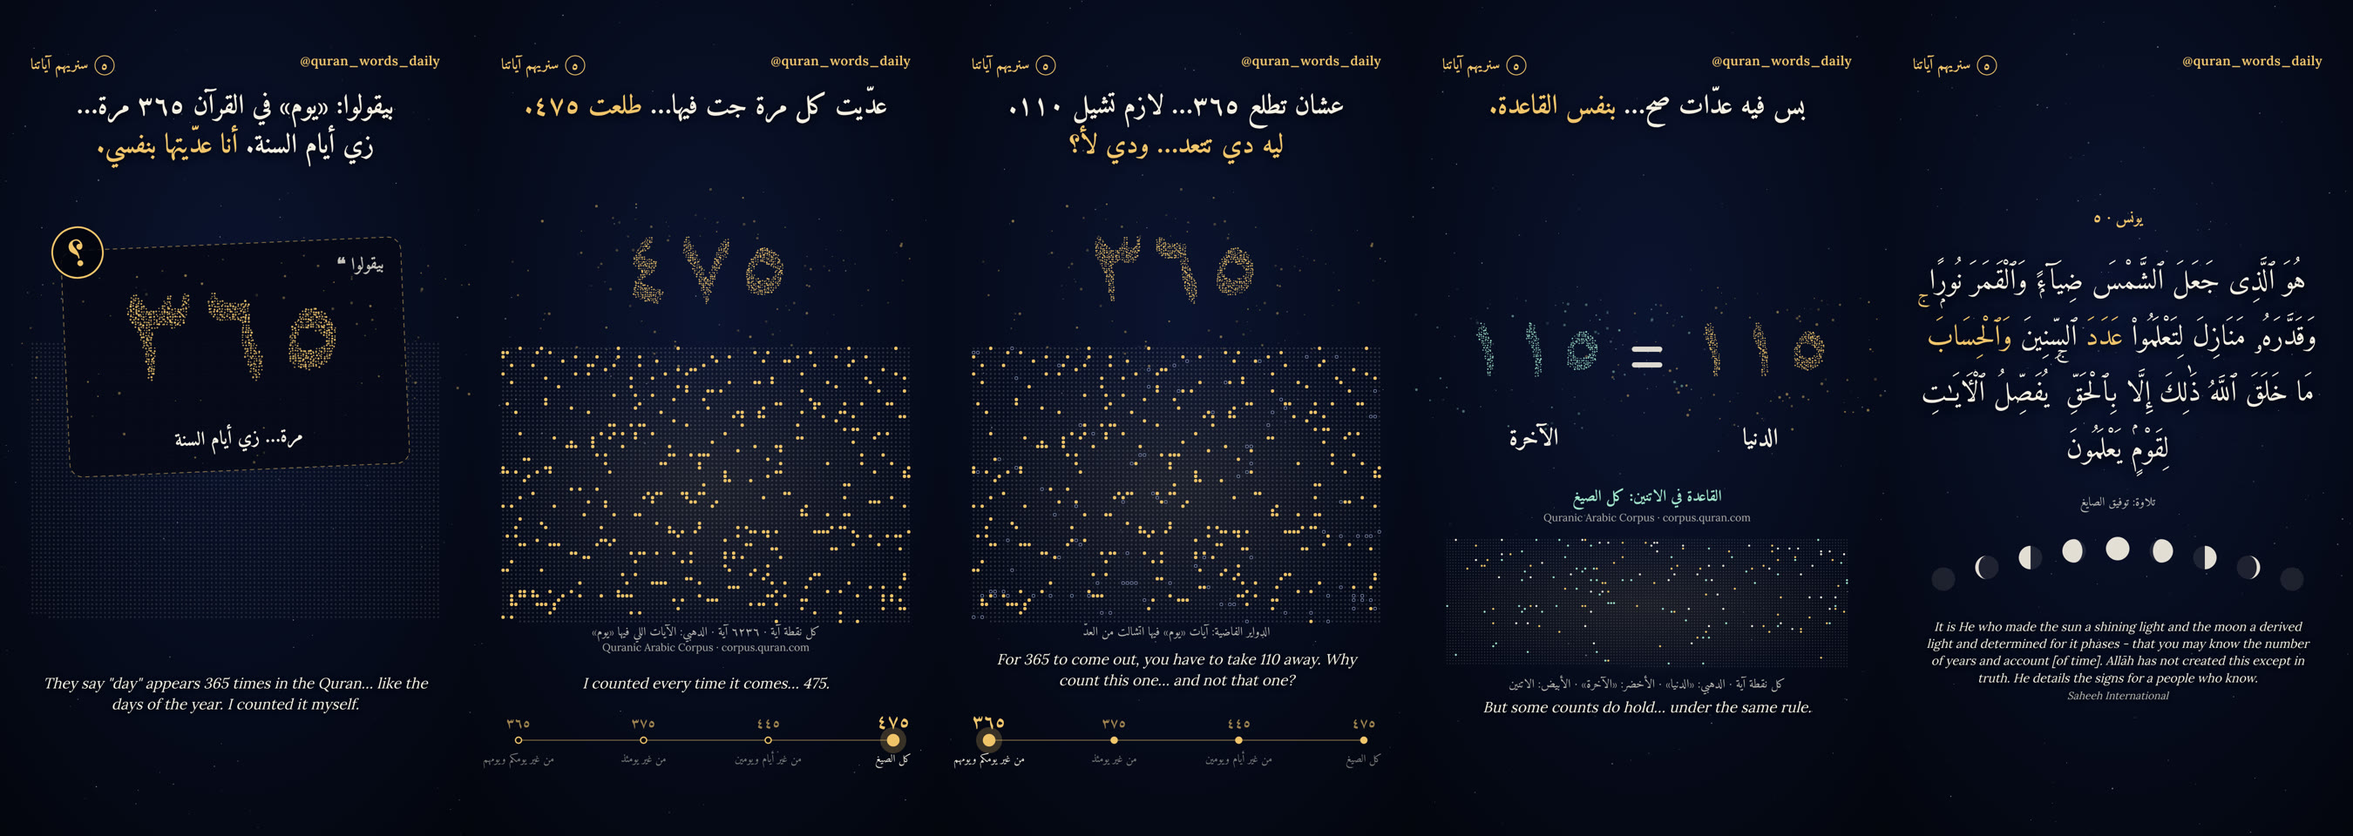
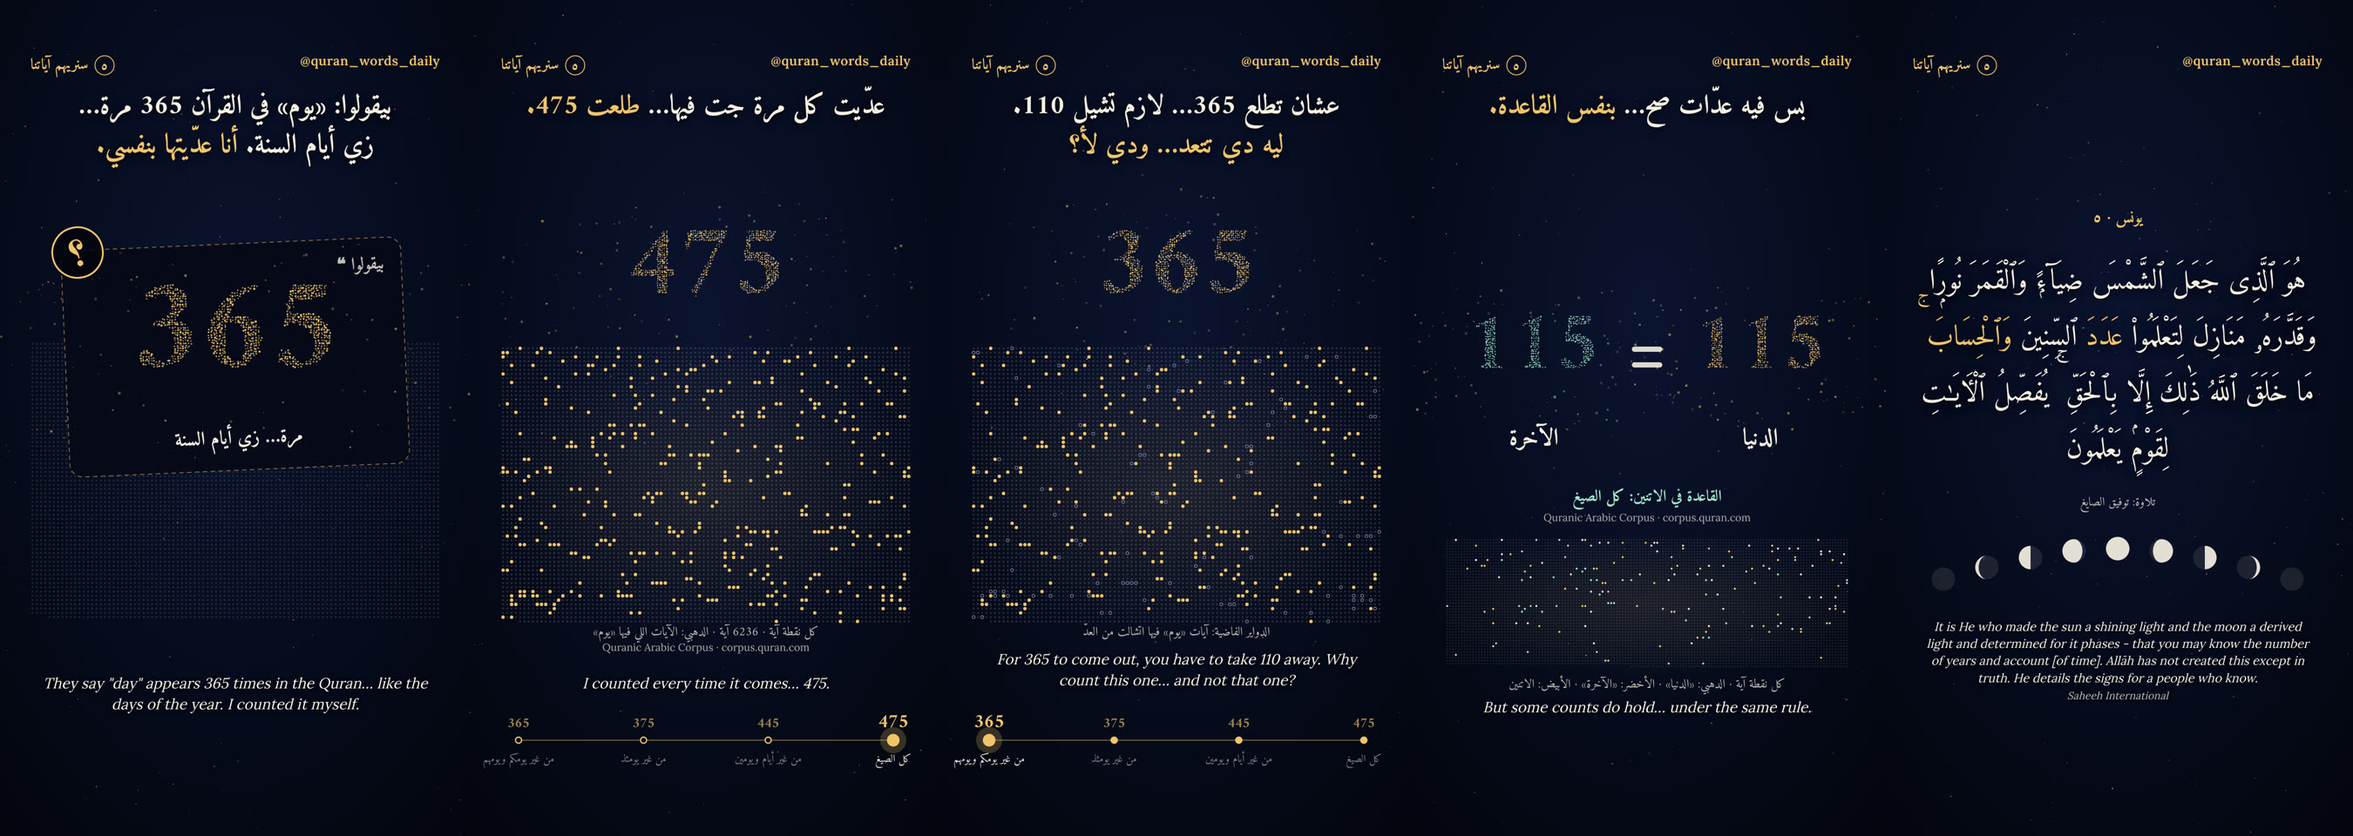
Write the counting style's numbers as 365, not in Arabic-Indic digits
The owner's choice for the counting style: the particle numbers, the
strip of rules, the lines and the captions. The series badge and the
verse references keep the series' digits. Style frames redrawn.

Claude-Session: https://claude.ai/code/session_019MTSq8WuNnFx7ScByNjKLN

diff --git a/docs/retention/count-style-frame.py b/docs/retention/count-style-frame.py
@@ -1,7 +1,8 @@
 #!/usr/bin/env python3
 """Style frames of the counting style (owner, 2026-11-13: « enregistre ce style comme option »), not part of the videos:
-five stills of a « سنريهم آياتنا » episode on the claim « يوم ٣٦٥ » in the look of the counting style (docs/model.md):
-numbers made of particles, a grid of the 6,236 verses where the counted word lights up, a strip of the counting rules
+five stills of a « سنريهم آياتنا » episode on the claim « يوم 365 » in the look of the counting style (docs/model.md):
+numbers made of particles (counts written 365, never in Arabic-Indic digits: owner,
+2026-11-13), a grid of the 6,236 verses where the counted word lights up, a strip of the counting rules
 at the foot, two counts set equal, a verse with a drawing under it.
 
 Every number is counted here, never typed: the morphology of the Quranic Arabic Corpus (quran-morphology.txt of
@@ -26,13 +27,8 @@ MORPH = Path(sys.argv[2])
 FONTS = ROOT / "video" / "public" / "fonts"
 W, H = 1080, 1920
 GOLD, INK, NIGHT, MINT, OFF = "#f0c46a", "#f4efe2", "#03050d", "#9fe3c8", "#7f8db0"
-AR = str.maketrans("0123456789", "٠١٢٣٤٥٦٧٨٩")
 e = html.escape
 random.seed(5)
-
-
-def ar(n):
-    return str(n).translate(AR)
 
 
 # --- the counts -------------------------------------------------------------------------------------------------------
@@ -110,7 +106,7 @@ def rules(step):
         glow = f'<circle cx="{x:.0f}" cy="{y}" r="30" fill="{GOLD}" opacity=".22"/>' if on else ""
         out.append(f'{glow}<circle cx="{x:.0f}" cy="{y}" r="{r}" fill="{GOLD if on or past else NIGHT}" stroke="{GOLD}" stroke-width="3"/>'
                    f'<text x="{x:.0f}" y="{y - 30}" text-anchor="middle" font-family="Amiri" font-weight="700" font-size="{44 if on else 32}" '
-                   f'fill="{GOLD}" opacity="{1 if on else .65}">{ar(n)}</text>'
+                   f'fill="{GOLD}" opacity="{1 if on else .65}">{str(n)}</text>'
                    f'<text x="{x:.0f}" y="{y + 50}" text-anchor="middle" font-family="Amiri" font-size="25" fill="{INK}" '
                    f'opacity="{.95 if on else .5}">{label}</text>')
     return "".join(out)
@@ -227,30 +223,30 @@ CORPUS = "Quranic Arabic Corpus · corpus.quran.com"
 # 1. The first frame: the claim, shown as a claim (quoted, dashed, a question mark on it), never said by our voice
 CARD = (f'<rect x="150" y="560" width="780" height="520" rx="30" transform="rotate(-2.5 540 820)" fill="#060a18" fill-opacity=".92" '
         f'stroke="{GOLD}" stroke-opacity=".55" stroke-width="2" stroke-dasharray="10 8"/>')
-page("count-a", stars(160) + grid(790, faint=True) + CARD + number(ar(365), 540, 800, 300),
+page("count-a", stars(160) + grid(790, faint=True) + CARD + number(str(365), 540, 800, 300),
      f'''{TOP}
-<div class="line">بيقولوا: «يوم» في القرآن ٣٦٥ مرة…<br>زي أيام السنة. <span class="gold">أنا عدّيتها بنفسي.</span></div>
+<div class="line">بيقولوا: «يوم» في القرآن 365 مرة…<br>زي أيام السنة. <span class="gold">أنا عدّيتها بنفسي.</span></div>
 <div class="claim"><div class="who">❝ بيقولوا</div><div class="what">مرة… زي أيام السنة</div></div><div class="stamp">؟</div>
 <div class="en" style="top:1545px">They say "day" appears 365 times in the Quran… like the days of the year. I counted it myself.</div>''')
 
 # 2. The count: every form of the word, every verse it is in lit on the grid
-page("count-b", stars(90) + number(ar(STEPS[0]), 540, 640, 230) + grid(800, lit=lit_all) + rules(0),
+page("count-b", stars(90) + number(str(STEPS[0]), 540, 640, 230) + grid(800, lit=lit_all) + rules(0),
      f'''{TOP}
-<div class="line">عدّيت كل مرة جت فيها… <span class="gold">طلعت {ar(STEPS[0])}.</span></div>
-<div class="caption" style="top:1428px">كل نقطة آية · {ar(len(VERSES))} آية · الدهبي: الآيات اللي فيها «يوم»</div>
+<div class="line">عدّيت كل مرة جت فيها… <span class="gold">طلعت {str(STEPS[0])}.</span></div>
+<div class="caption" style="top:1428px">كل نقطة آية · {str(len(VERSES))} آية · الدهبي: الآيات اللي فيها «يوم»</div>
 <div class="source" style="top:1470px">{CORPUS}</div>
 <div class="en" style="top:1545px">I counted every time it comes… 475.</div>''')
 
 # 3. The rules: what has to go for 365 to come out, the verses that go dark as empty rings
-page("count-c", stars(90) + number(ar(STEPS[3]), 540, 640, 230) + grid(800, lit=lit_kept, gone=lit_all - lit_kept) + rules(3),
+page("count-c", stars(90) + number(str(STEPS[3]), 540, 640, 230) + grid(800, lit=lit_kept, gone=lit_all - lit_kept) + rules(3),
      f'''{TOP}
-<div class="line">عشان تطلع ٣٦٥… لازم تشيل {ar(STEPS[0] - STEPS[3])}.<br><span class="gold">ليه دي تتعد… ودي لأ؟</span></div>
+<div class="line">عشان تطلع 365… لازم تشيل {str(STEPS[0] - STEPS[3])}.<br><span class="gold">ليه دي تتعد… ودي لأ؟</span></div>
 <div class="caption" style="top:1428px">الدواير الفاضية: آيات «يوم» فيها اتشالت من العدّ</div>
 <div class="en" style="top:1490px">For 365 to come out, you have to take 110 away. Why count this one… and not that one?</div>''')
 
 EQUALS = "".join(f'<rect x="505" y="{y}" width="70" height="12" rx="6" fill="{INK}" opacity=".9"/>' for y in (796, 832))
 # 4. The honest part: two counts that do hold, under the same rule
-page("count-d", stars(120) + number(ar(dunya), 800, 820, 190) + EQUALS + number(ar(akhira), 280, 820, 190, MINT)
+page("count-d", stars(120) + number(str(dunya), 800, 820, 190) + EQUALS + number(str(akhira), 280, 820, 190, MINT)
      + grid(1240, lit=in_dunya, other=in_akhira, cols=140, pitch=6.6, size=.62),
      f'''{TOP}
 <div class="line">بس فيه عدّات صح… <span class="gold">بنفس القاعدة.</span></div>

diff --git a/CLAUDE.md b/CLAUDE.md
@@ -150,7 +150,7 @@ La session est l'orchestrateur : elle fait le plan, confie ce qui s'y prête, re
 - **Dhul-Qarnayn** (`west`, `tribute`, `barrier`, film `qarnayn`) : **tout est validé** le 2026-11-12, vidéos et textes à coller (`docs/retention/publication-qarnayn.md`) ; release brouillon `qarnayn-candidate`. À publier par lui. Ensuite : les autres épisodes publiés à réécrire (`docs/themes.md`).
 - **La série « آية وحكايتها »** (`ayah` : `caravan` 62:11, `duha` 93:1-8, `hope` 39:53) : pilote de trois shorts (1:41, 1:50, 1:31), **tout est validé** le 2026-11-12 : le script (une réplique du short 3 changée à sa demande : `content/wording.yaml`, `sins-named`), puis les vidéos (voix, images, clips, couvertures, ambiances ; le short 1 en plein jour, parce que la prière du vendredi est à midi), ses vingt-deux sources et les textes à coller (`docs/retention/publication-ayah.md`) ; release brouillon `ayah-candidate`. À publier par lui. Sa dernière réplique promet « le verset suivant et son récit » : trois versets candidats pour la suite (24:22, 8:32-33, 9:118 : `docs/themes.md`) ; **sa décision (2026-11-12) : publier d'abord, poursuivre ensuite**, le choix se fera avec les premières mesures (vers le 27 novembre si la série sort un vendredi par semaine).
 - **Les films en vertical, à l'essai** (sa demande, 2026-11-12 : « les films aussi en 9:16, à mettre sur Facebook » ; il commence à publier le vendredi 13) : le même film, même voix et même minutage, monté comme ses shorts (`TrialFilm916`, `only: tall`, release brouillon `<files>-9x16-candidate`, texte par `publish.py --tall` ; `docs/model.md`). Avis donné : oui pour Facebook (toute vidéo y est un Reel, le 16:9 y est une bande au milieu du téléphone), mais il y répète ses trois shorts : en publier un d'abord, après ses shorts, et comparer. Il publie **Moussa et al-Khadir en premier**. Les trois films verticaux sont rendus, contrôlés et envoyés avec leur texte Facebook (`video/out/tall/` de la session) : Moussa et al-Khadir (7:47, rendu dans la session), Dhul-Qarnayn (8:25) et le du'a (7:36), ces deux-là dans leurs releases brouillon `qarnayn-9x16-candidate` et `dua-9x16-candidate`. **Validés par lui le 2026-11-12** (« je valide tout » : le montage vertical et le texte Facebook ; `tall.validated` de chaque fichier de film ; textes : `docs/retention/publication-<film>-9x16.md`). Le film 16:9 et le film vertical de Moussa et al-Khadir ne sont dans aucune release (rendus dans la session) : ils ne vivent que dans la conversation et dans `video/out/` de la session.
-- **Une deuxième série, « سنريهم آياتنا »** (son idée, 2026-11-12 ; titre validé par lui, 41:53) : Abou Lahab (111:1-5, Ibn Kathir) et deux versets scientifiques, sans jamais dire que la science prouve le Coran ; l'embryologie, qu'il cite, est déconseillée par la session (nos trois tafsirs y lisent des étapes de quarante jours), 51:47 et 6:125 recommandés. Un style à elle, **validé par lui** (une enquête : photos du ciel de l'ESA, crédit écrit sur l'image ; schémas ; frise des dates en or). **Quatre épisodes** (`content/trial/signs.yaml` : `lahab`, `universe`, `sky`, `womb`) ; **scripts, titres et débuts validés le 2026-11-12** (`docs/scripts/signs.md`). Sa décision : préparer et produire sans attendre les mesures (« on ne perd rien »). Fait le 2026-11-12/13 : sources au registre (onze sources scientifiques vérifiées, type nouveau), coupes de récitation, style (`video/src/trial/Signs.tsx`, `docs/model.md`), voix (quatre prises), rendu par le workflow `film` en 29 minutes (release brouillon `signs-candidate`, `video/out/signs/ci-1/` de la session) : 1:54, 1:35, 2:03, 1:59, contrôlés sur leurs planches, envoyés le 2026-11-13 avec les versions TikTok, les couvertures et les textes (`docs/retention/publication-signs.md`), ajoutés à sa page. **Tout validé par lui le 2026-11-13** (« je valide tout, garde إذا et la signature » : vidéos, textes, ses 38 sources ; `validated` de chaque épisode). À publier par lui. Fiche et recherche : `docs/themes.md`. **Des épisodes de comptage s'y ajoutent** (sa décision, 2026-11-13 : le « إعجاز عددي » vérifié, l'affirmation montrée comme une affirmation, jamais dite par notre voix) : l'épisode 5, « يوم ٣٦٥ », a ses images de style dans le **style compteur**, inscrit comme option (`docs/model.md`) ; son script vient ensuite.
+- **Une deuxième série, « سنريهم آياتنا »** (son idée, 2026-11-12 ; titre validé par lui, 41:53) : Abou Lahab (111:1-5, Ibn Kathir) et deux versets scientifiques, sans jamais dire que la science prouve le Coran ; l'embryologie, qu'il cite, est déconseillée par la session (nos trois tafsirs y lisent des étapes de quarante jours), 51:47 et 6:125 recommandés. Un style à elle, **validé par lui** (une enquête : photos du ciel de l'ESA, crédit écrit sur l'image ; schémas ; frise des dates en or). **Quatre épisodes** (`content/trial/signs.yaml` : `lahab`, `universe`, `sky`, `womb`) ; **scripts, titres et débuts validés le 2026-11-12** (`docs/scripts/signs.md`). Sa décision : préparer et produire sans attendre les mesures (« on ne perd rien »). Fait le 2026-11-12/13 : sources au registre (onze sources scientifiques vérifiées, type nouveau), coupes de récitation, style (`video/src/trial/Signs.tsx`, `docs/model.md`), voix (quatre prises), rendu par le workflow `film` en 29 minutes (release brouillon `signs-candidate`, `video/out/signs/ci-1/` de la session) : 1:54, 1:35, 2:03, 1:59, contrôlés sur leurs planches, envoyés le 2026-11-13 avec les versions TikTok, les couvertures et les textes (`docs/retention/publication-signs.md`), ajoutés à sa page. **Tout validé par lui le 2026-11-13** (« je valide tout, garde إذا et la signature » : vidéos, textes, ses 38 sources ; `validated` de chaque épisode). À publier par lui. Fiche et recherche : `docs/themes.md`. **Des épisodes de comptage s'y ajoutent** (sa décision, 2026-11-13 : le « إعجاز عددي » vérifié, l'affirmation montrée comme une affirmation, jamais dite par notre voix) : l'épisode 5, « يوم 365 », a ses images de style dans le **style compteur**, inscrit comme option (`docs/model.md`) ; son script vient ensuite.
 - **La suite** (sa décision, 2026-11-13, « go with your recommendations ») : **les gens de la caverne** pour le lundi 30 novembre (fiche dans le modèle, `docs/themes.md` ; script vers le 18, après les premières mesures) ; une troisième série, **« كلمة من القرآن »** (un mot rare du Coran, son sens d'après un tafsir nommé), lancée quand une place s'ouvre dans la grille : script pilote de trois épisodes (`kanud` 100:1-8, `stone` 4:49 · 4:124 · 35:13, `haluu` 70:19-23), l'épisode 2 réécrit à sa demande, « النواة » et « التمرة » à son choix, **script validé par lui le 2026-11-13** (`docs/scripts/kalima.md`) ; **produit le même jour** à sa demande (sources proposées, récitations, dessins `video/src/trial/Kalima.tsx`, voix, rendu par le workflow `film`) : 1:29, 1:58, 1:19 ; **livré le 2026-11-13** (vidéos, versions TikTok, couvertures, textes : `video/out/kalima/ci-1/` de la session, release brouillon `kalima-candidate`) ; la fin de `haluu` changée à sa demande (plus de résumé de la série : un épisode de série tient seul et annonce le suivant s'il est connu, sinon une phrase générique ; skill `write-hook`), refaite après sa confirmation (voix, rendu, `video/out/kalima/ci-2/`, release et page à jour) ; **tout validé par lui le 2026-11-13** (« je valide tout pour كلمة من القرآن » : vidéos, clips, ambiances, couvertures, textes, ses 26 sources). À publier par lui quand une place s'ouvre. **Le tafsir n'est plus nommé par la narration** (sa demande, 2026-11-13) : la référence s'écrit sous la réplique (`content/wording.yaml`).
 - **La page du propriétaire** (sa demande, 2026-11-11 : revoir films et shorts sans passer par une session, avec aperçu, couverture, textes et bouton « Copier ») : l'artefact privé « Films et shorts à publier » de son compte claude.ai (`list_artifacts` le retrouve par ce titre), fait par `tools/trial/gallery.py` et republié par la session à chaque film livré ou validé (skill `release-render`, §7). Y sont, tous validés : Moussa et al-Khadir, le du'a, Dhul-Qarnayn (chacun avec son film vertical et son texte Facebook, depuis le 2026-11-12), la série « آية وحكايتها » et la série « سنريهم آياتنا » (2026-11-13) ; « كلمة من القرآن » (2026-11-13). **En tête, le calendrier** (sa demande, 2026-11-13) : lu dans `docs/retention/calendar.md`, chaque date liée à sa vidéo ; la prochaine publication est marquée par la page elle-même ; quand il dit ce qu'il a publié, la session barre la date dans ce fichier et republie la page.
 - **Rendu dans GitHub Actions** : en service depuis le 2026-11-11 (workflow `film`, skill `release-render` §0) : sept vidéos en 70 minutes, release brouillon `<files>-candidate`, `from_run` pour republier sans re-rendre. Le premier film (qui lit un ancien épisode) se rend encore dans la session.

diff --git a/docs/history.md b/docs/history.md
@@ -183,6 +183,8 @@ Le propriétaire (2026-11-11) : il a validé ce qui existe **par rapport aux opt
 
 84. **Les épisodes de comptage, et le style compteur** (propriétaire, 2026-11-13 : « oui, je valide tes recommandations, et enregistre ce style comme option à utiliser si ça fonctionne, pour une série ou dans une partie ; et commence le design de ta proposition »). Lu comme : les épisodes de comptage dans « سنريهم آياتنا », l'affirmation montrée comme une affirmation dès la première image, les exemples politiques laissés, le style repris en version à nous ; la question des auteurs contemporains n'avait pas de recommandation, elle reste à son mot (avis donné : non). **Inscrit** : le style dans `docs/model.md` (une option, pas encore construite dans Remotion), la règle de l'accroche dans le skill `write-hook`, les décisions et le plan de l'épisode 5 dans `docs/themes.md`. **Images de style** : cinq images 9:16 de « يوم ٣٦٥ » (`docs/retention/count-style-frame.py`, `count-style-yawm.jpg`), chaque nombre compté par le script sur le Quranic Arabic Corpus (475, 445, 375, 365 ; 437 versets allumés, 341 après les règles ; الدنيا et الآخرة 115), le verset 10:5 lu depuis quran.com ; `style-frame-shot.js` attend désormais qu'une page qui dessine par script ait fini.
 
+85. **Les comptes en chiffres « 365 »** (propriétaire, 2026-11-13 : « utilise les nombres 365 et non pas ٣٦٥ »). Lu comme valant pour le style compteur : le nombre en particules, la bande des règles, les répliques et les légendes ; le badge de la série et la référence d'un verset gardent ceux de « سنريهم آياتنا », et les autres séries ne changent pas sans son mot. Inscrit dans `docs/model.md` ; images refaites.
+
 ## Arborescence (telle qu'elle était décrite le 2026-11-11, ancien circuit compris)
 
 ```

diff --git a/docs/themes.md b/docs/themes.md
@@ -653,12 +653,12 @@ auteurs contemporains (ar-Rumi, Qutna, islamqa). Avis de la session : non ; les 
 un script, leur règle écrite à l'écran, et tout spectateur peut les refaire ; une source de type nouveau, `count` (le
 corpus, le lemme, la règle), comme `science`.
 
-**L'épisode 5, « يوم ٣٦٥ »** (plan de la session, 2026-11-13 ; images de style `docs/retention/count-style-yawm.jpg` ;
+**L'épisode 5, « يوم 365 »** (plan de la session, 2026-11-13 ; images de style `docs/retention/count-style-yawm.jpg` ;
 le script viendra après les images, et la voix après « je valide le script ») :
 
 | Temps | Ce qui se passe | Image |
 | --- | --- | --- |
-| L'affirmation | « بيقولوا: «يوم» في القرآن ٣٦٥ مرة… زي أيام السنة. أنا عدّيتها بنفسي. » | la carte « بيقولوا », 365 en particules, un « ؟ » ; la grille attend derrière |
+| L'affirmation | « بيقولوا: «يوم» في القرآن 365 مرة… زي أيام السنة. أنا عدّيتها بنفسي. » | la carte « بيقولوا », 365 en particules, un « ؟ » ; la grille attend derrière |
 | Le compte | toutes les formes : 475 | la grille s'allume, 437 versets |
 | Les règles | 365 n'apparaît qu'en retirant 110 : أيام et يومين (30), يومئذ (70), يومكم et يومهم (10) ; « ليه دي تتعد… ودي لأ؟ » | la bande des règles, des versets qui s'éteignent en anneaux vides (341 restent) |
 | L'année du Coran | 10:5 récité : les phases de la lune pour compter les années (al-Muyassar) ; une année lunaire fait 354 jours (source `science` à inscrire) | le verset, « عَدَدَ ٱلسِّنِينَ وَٱلْحِسَابَ » en or, les phases de la lune |

diff --git a/docs/model.md b/docs/model.md
@@ -120,8 +120,11 @@ qu'on en garde est une version à nous, retournée vers la vérification. **Pour
 qui compare (un mot du Coran et ses occurrences, deux versets presque pareils, une affirmation chiffrée qui circule) ;
 **pas pour** une histoire, où le clip filmé et ses silhouettes restent le modèle. Rien n'est mesuré : à essayer sur un
 épisode avant de l'étendre. Images de style : `docs/retention/count-style-yawm.jpg` (`count-style-frame.py`, cinq images
-d'un épisode « يوم ٣٦٥ » de « سنريهم آياتنا »). **Pas encore construit dans Remotion.**
+d'un épisode « يوم 365 » de « سنريهم آياتنا »). **Pas encore construit dans Remotion.**
 - **Un nombre fait de particules** qui se rassemblent ; un « = » entre deux comptes.
+- **Les comptes en chiffres « 365 »**, pas en chiffres arabes orientaux (propriétaire, 2026-11-13) : dans le nombre en
+  particules, la bande des règles, les répliques et les légendes ; le badge de la série et la référence d'un verset
+  gardent ceux de la série.
 - **La grille des 6 236 versets** (une pastille par verset, dans l'ordre du mushaf, de droite à gauche) : en or les
   versets du mot compté ; en anneau vide ceux qu'une règle retire ; un second mot dans une autre couleur.
 - **La bande des règles**, au pied de l'image, à la place de la frise des dates de « سنريهم آياتنا » : chaque règle de
